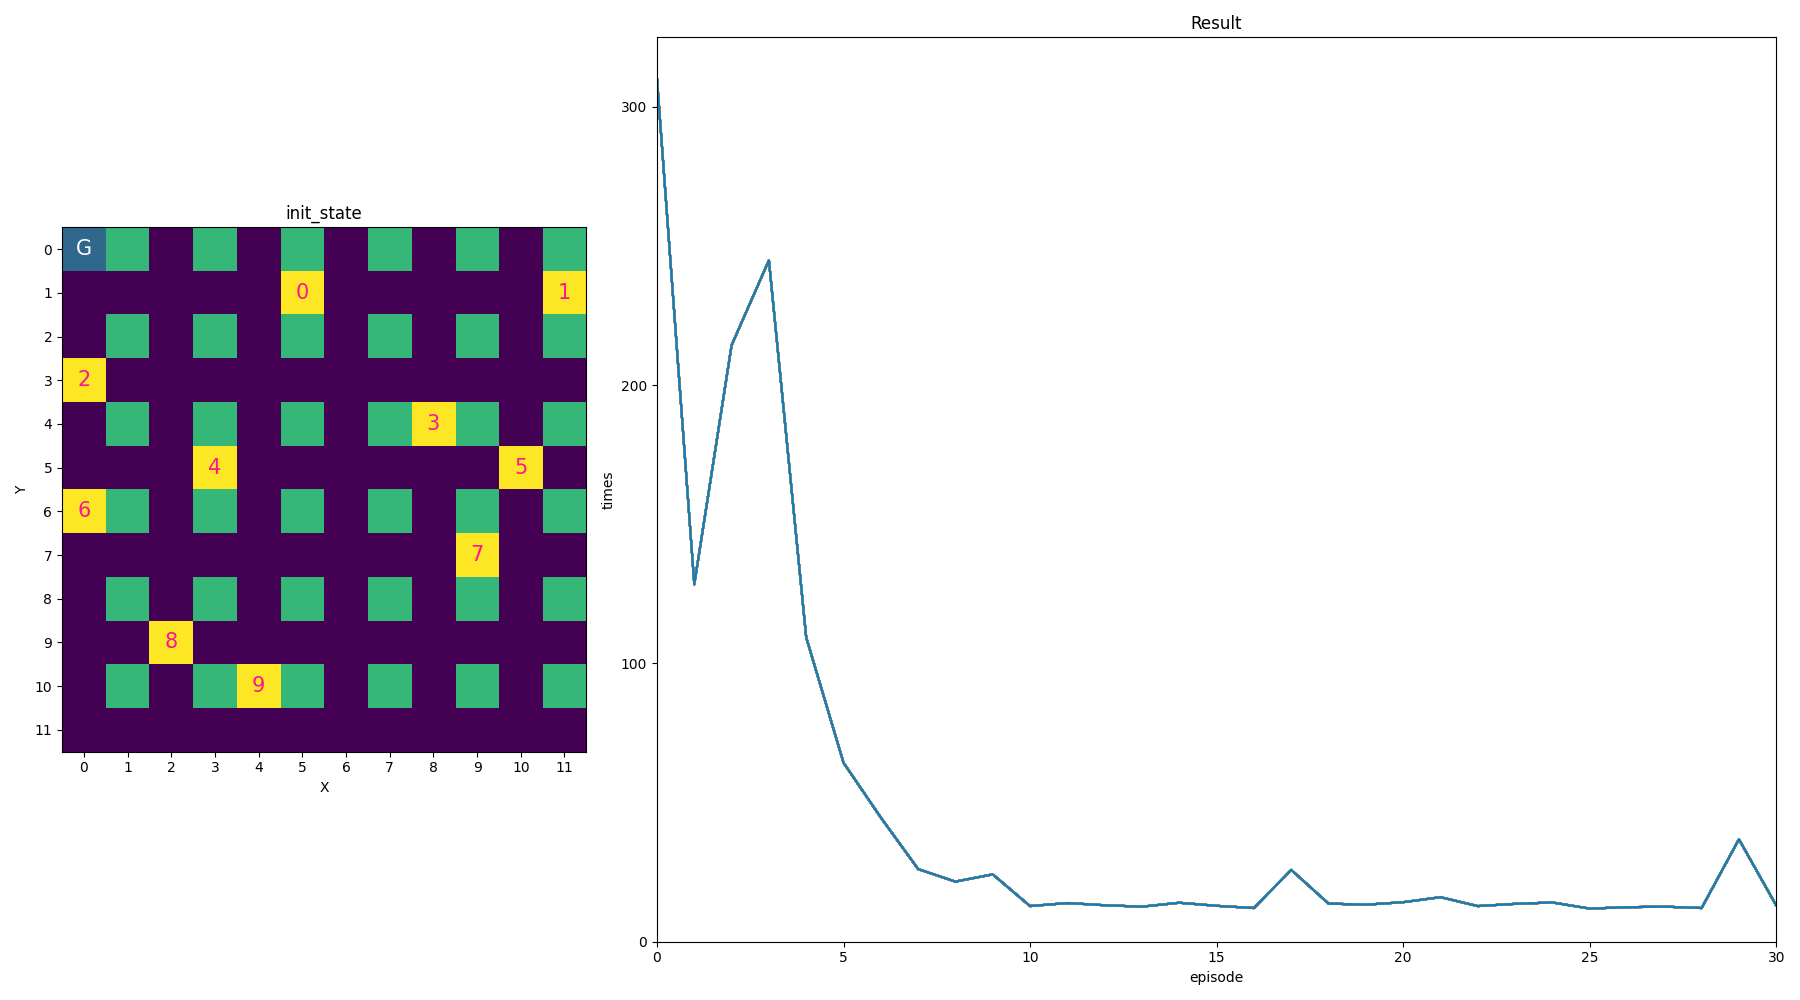
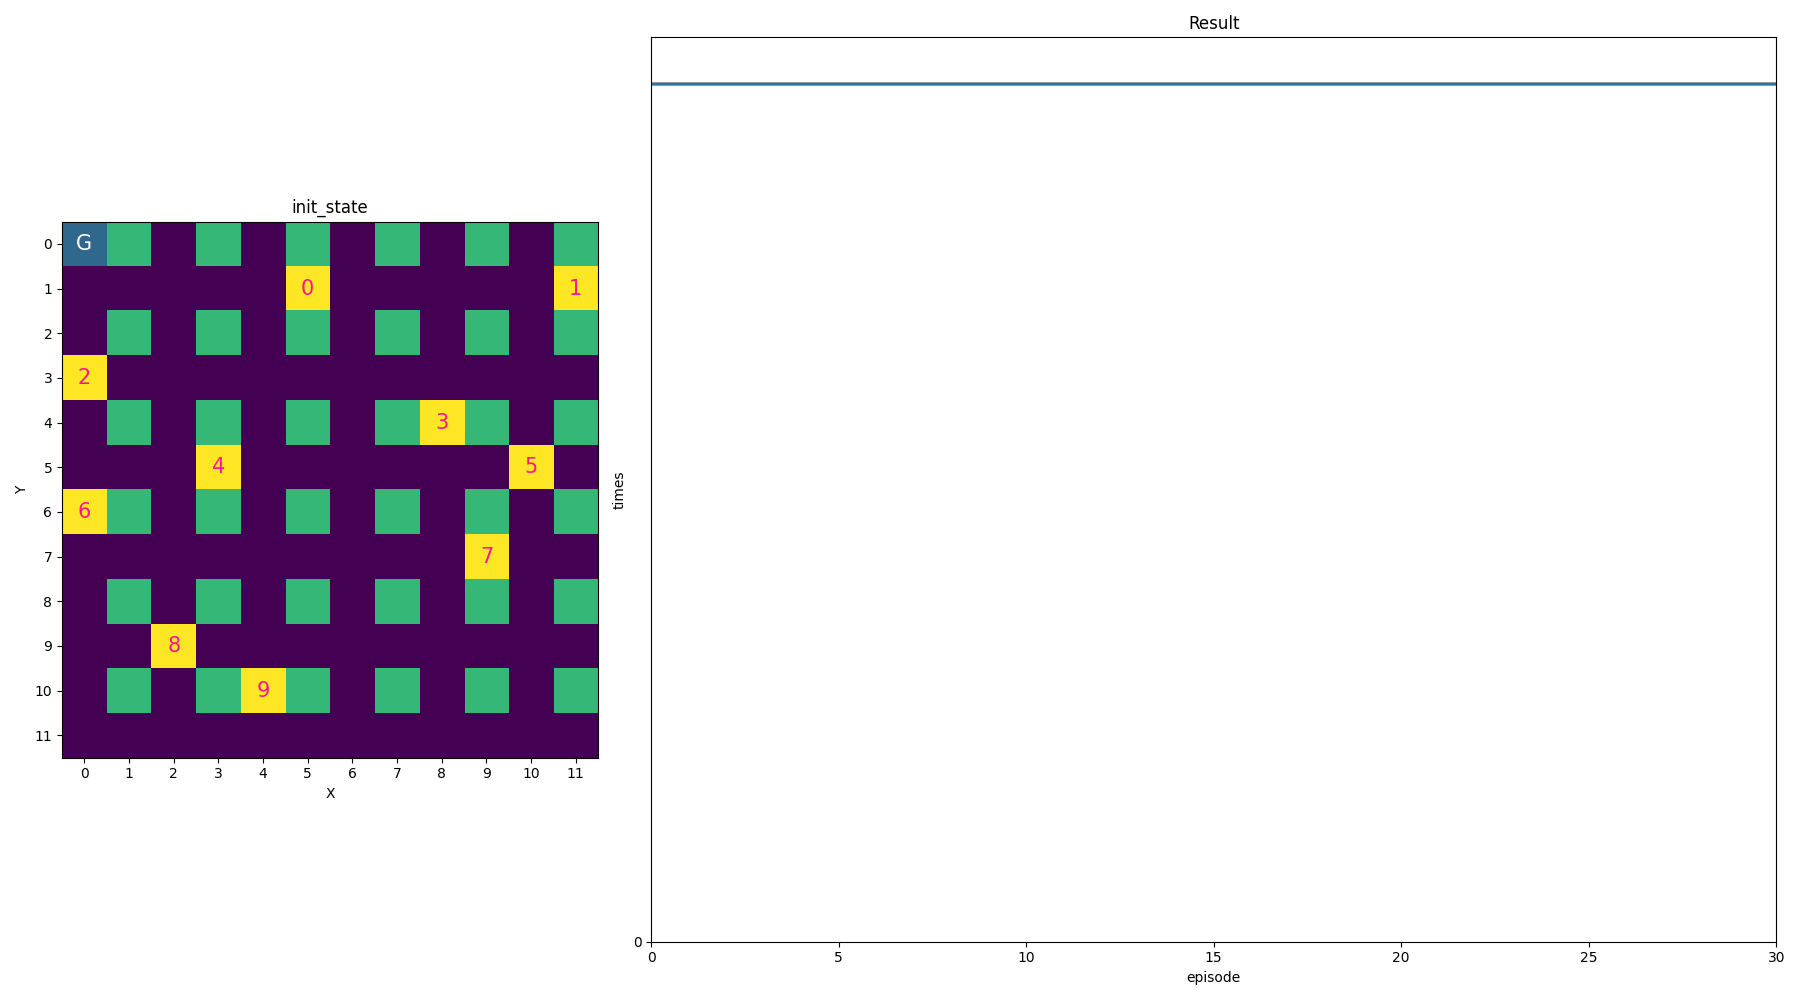
01/04 17:55

diff --git a/multi.py b/multi.py
@@ -19,7 +19,7 @@ if __name__ == '__main__':
     grid_env = GridWorld(   # grid worldの環境の初期化
         x_max=X_MAX,
         y_max=Y_MAX)
-
+    """
     decided_zero = [grid_env.zero_list[10],
                     grid_env.zero_list[16],
                     grid_env.zero_list[23],
@@ -30,9 +30,10 @@ if __name__ == '__main__':
                     grid_env.zero_list[68],
                     grid_env.zero_list[79],
                     grid_env.zero_list[91]]
+    """
     
     summon = Summon(             # エージェントの召喚
-        zero_list=decided_zero,
+        zero_list=grid_env.zero_list,
         population=POPULATION)
     print(f"StaRt time = {time.time()-start}")    #times = []
 
@@ -43,6 +44,7 @@ if __name__ == '__main__':
             start_x = i.observation[0]
             start_y = i.observation[1]
             grid_env.map[start_x][start_y] = 3
+            print(start_x,start_y)
         init_map = np.array(grid_env.map)
         while(np.all(is_end_episode) == False):    # 全員がゴールするまで続ける
             for id,agent in enumerate(summon.agents):
@@ -50,11 +52,13 @@ if __name__ == '__main__':
                     start_x = agent.observation[0]
                     start_y = agent.observation[1]
                     grid_env.map[start_x][start_y] = 0
-                    action = agent.act()  # 行動選択
-                    state, reward, is_end_episode[id] = grid_env.step(start_x, start_y, action)
+                    state, is_end_episode[id] = grid_env.step(start_x, start_y)
+                    print(state)
                     grid_env.map[state[0]][state[1]] = 3
-                    agent.observe(state, reward)   # 状態と報酬の観測 
+                    agent.observe(state)   # 状態の観測 
                     episode_reward[episode][id] += 1
+                    #plt.imshow(grid_env.map)
+                    #plt.show()
                 else:
                     grid_env.map[0][0] = 1
                     #grid_env.map[X_MAX-1][0] = 1

diff --git a/grid_world.py b/grid_world.py
@@ -31,35 +31,22 @@ class GridWorld:
         #self.start_pos = start_x,start_y   # エージェントのスタート地点(x, y)
         #self.agent_pos = copy.deepcopy(self.start_pos)  # エージェントがいる地点
 
-    def step(self, start_x, start_y, action):
+    def step(self, start_x, start_y):
         """
             行動の実行
-            状態, 報酬、ゴールしたかを返却
+            状態、ゴールしたかを返却
         """
         to_x, to_y = start_x, start_y
-
-        # 移動可能かどうかの確認。移動不可能であれば、ポジションはそのままにマイナス報酬
-        action_possibility = self._is_possible_action(to_x, to_y, action)
-        if action_possibility == 1:
-            self.agent_pos = to_x, to_y
-            return self.agent_pos, -15, False
-        elif action_possibility == 2:
-            self.agent_pos = to_x, to_y
-            return self.agent_pos, 0, False
-
-        if action == self.actions["UP"]:
-            to_y += -1
-        elif action == self.actions["DOWN"]:
-            to_y += 1
-        elif action == self.actions["LEFT"]:
+        # 移動可能かどうかの確認。(左→無理なら上)
+        left_possibility = self._is_possible_action(to_x, to_y, action=self.actions["UP"])
+        if left_possibility != 0:
             to_x += -1
-        elif action == self.actions["RIGHT"]:
-            to_x += 1
-
+        elif self._is_possible_action(to_x, to_y, action=self.actions["LEFT"]):
+            to_y += -1
+        #up_possibility = self._is_possible_action(to_x, to_y, action=self.actions["LEFT"])
         is_goal = self._is_end_episode(to_x, to_y)  # エピソードの終了の確認
-        reward = self._compute_reward(to_x, to_y)
         self.agent_pos = to_x, to_y
-        return self.agent_pos, reward, is_goal
+        return self.agent_pos, is_goal
 
     def _is_end_episode(self, x, y):
         """

diff --git a/qlearning_agent.py b/qlearning_agent.py
@@ -17,7 +17,8 @@ class Summon:
     def __generate_agents(self, zero_list, population):
         agents = []
         for id in range(population):
-            ini_state = zero_list[id] # 初期状態（エージェントのスタート地点の位置）
+            ini_state = random.choice(zero_list) # 初期状態（エージェントのスタート地点の位置）
+            
             agents.append(
                 QLearningAgent(
                     alpha=ALPHA,
